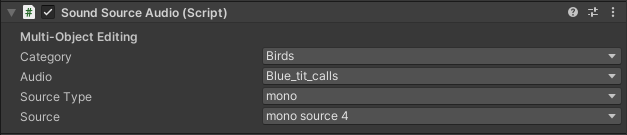
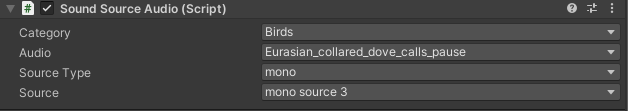
Remove unneccessary label

diff --git a/Birds Test/Assets/Soundscape/Scripts/Editor/SoundSourceAudioEditor.cs b/Birds Test/Assets/Soundscape/Scripts/Editor/SoundSourceAudioEditor.cs
@@ -117,8 +117,6 @@ public class SoundSourceAudioEditor : Editor
     {
         serializedObject.Update();
 
-        EditorGUILayout.LabelField("Multi-Object Editing", EditorStyles.boldLabel);
-
         if (targetsList.All(t => t.audioLibrary != null))
         {
             DrawCategoryDropdown();
